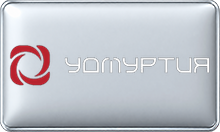
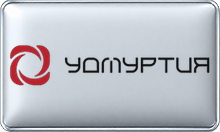
Apply manually approved V24 #14700 WHITE candidate

Changed region(s): [[0.2727, 0.4242, 0.9545, 0.5758]]

diff --git a/reports/warder-master-production/phase4-v25-manual-approval-14700-20260927/REPORT.md b/reports/warder-master-production/phase4-v25-manual-approval-14700-20260927/REPORT.md
@@ -1,0 +1,42 @@
+# V25 — Manual approval and controlled #14700 WHITE apply
+
+**Status:** V24 right-hand candidate manually approved by the user on 2026-09-27.  
+**Selection:** “pravy je dobry” — dark УДМУРТИЯ wordmark is correct and legible on WHITE MASTER; the red symbol remains preserved.
+
+## Exact approved artifact
+
+- Candidate path: `reports/warder-master-production/phase4-v24-single-rule-replay-20260927/14700-V24-DIAGNOSTIC-WHITE-CANDIDATE.png`
[1 lines of base64/hex data omitted]
+- Comparison path: `reports/warder-master-production/phase4-v24-single-rule-replay-20260927/14700-SOURCE-CURRENT-V24-CANDIDATE.png`
+- The comparison's right-hand 220×132 panel was pixel-compared with the candidate RGB and matches exactly.
+- Existing Phase3/V24 audit specifies WHITE output path: `picons/80.0e/orion-express/white/1_0_1_32D_CE_1_3200000_0_0_0.png`.
+
+## Pre-apply checks
+
+| Check | Result |
+|---|---|
[4 lines of base64/hex data omitted]
+| Target components | V9 visible components 4, 12, 13 |
+| Target RGB | `(16,16,16)` |
+| RGB changes outside components 4/12/13 | 0 |
+| Chromatic component 1 changed pixels | 0 |
+| Source-layer alpha | Bit-identical per V24 audit |
+| Candidate output alpha vs CURRENT WHITE | Bit-identical |
+| Candidate regenerated | No |
+
+The approved PNG is the final WHITE MASTER-composited picon. Its output alpha follows the rendered master and is not expected to equal the transparent source alpha. The V24 invariant is that the fitted logo layer's alpha remains bit-identical while only selected RGB is recolored; V24 records `source_layer_alpha_equal=true`. The rendered candidate's alpha matches CURRENT WHITE pixel-for-pixel.
+
+## Approval ledger
+
+Appended one row to the existing `reports/warder-master-production/phase4-v10-approved-batch13/APPROVAL-AUDIT.csv` using its existing columns. The accompanying report preserves the approval date and user note.
+
+## Apply and post-apply verification
+
+The WHITE output at the exact path above is replaced byte-for-byte with the already approved V24 PNG. No candidate was regenerated. The V24 artifact itself remains unchanged.
+
+The commit audit verifies exactly one changed picon path. BLACK, transparent source, WHITE MASTER/template, all other picons, and all regression-control outputs remain unchanged. The narrow replay reuses the pinned V24/Phase3 control results: both genuine-two-tone controls stay protected; #14607/#14611 remain REVIEW; #14593 remains REVIEW; #14597 remains cautious REVIEW; Digi Slovakia remains PASS/0 changes. #14599 was not accessed.
+
+This approval is specific to #14700 WHITE. It does not authorize generator changes, global topology-aware rollout, other picon edits, full rebuild, or main-branch integration.
